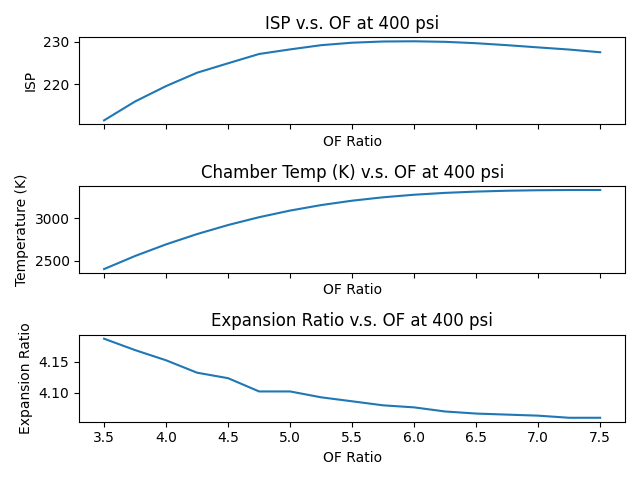
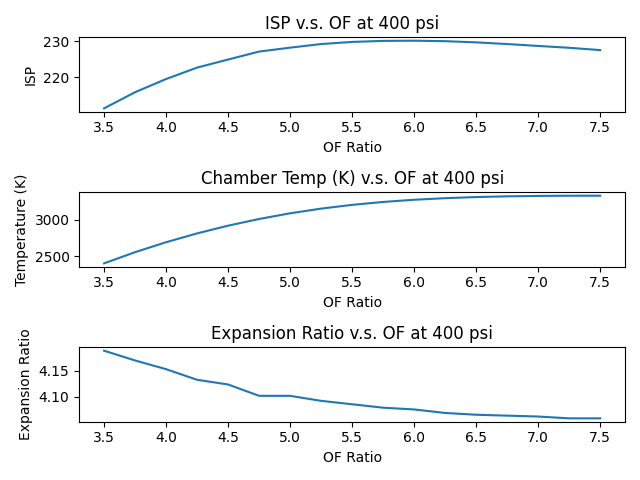
graphs done

diff --git a/graphs.py b/graphs.py
@@ -13,7 +13,7 @@ def getData(paths, pressure):
     CP_CV = df["CP_CV"].to_numpy()
 
 
-    fig, axs = plt.subplots(3, sharex = True) 
+    fig, axs = plt.subplots(3) 
     """
     Plot in the following order:
     Graphs for ISP v.s. OF, 
